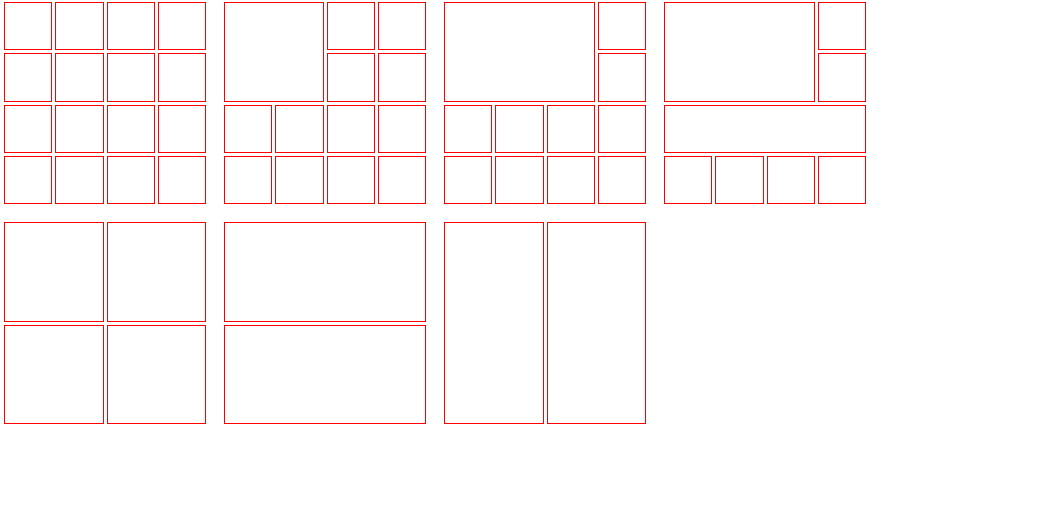
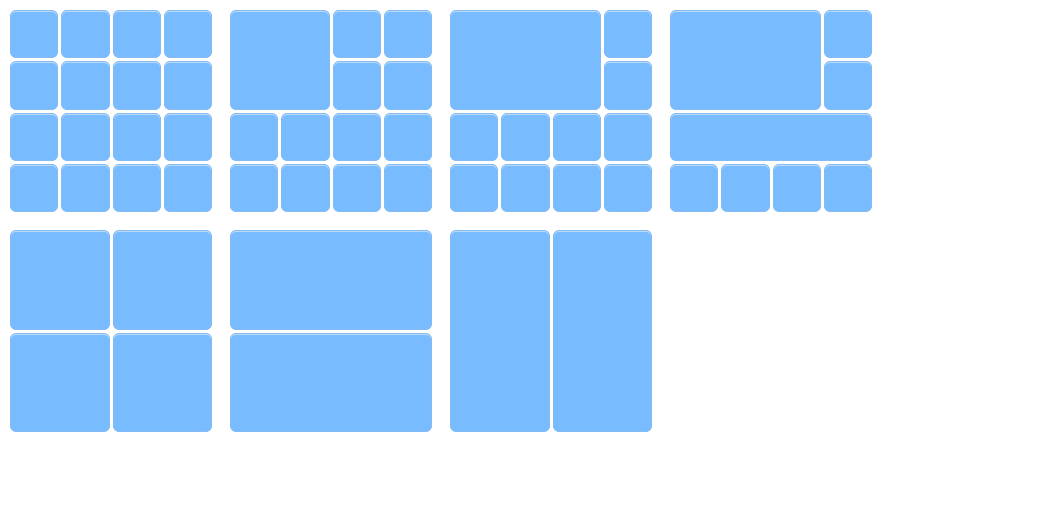
updated example

diff --git a/example/example.less b/example/example.less
@@ -1,2 +1,54 @@
 @import "../src/grid.less";
-.grid(grid, 200px, 200px, 4, 4, 5px);
+
+	.grid(grid, 200px, 200px, 4, 4, 5px)
+
+;
+
+// styling
+
+html, body {
+	width: 100%;
+	height: 100%;
+
+	margin: 0;
+	padding: 0;
+
+}
+
+.grid {
+	margin: 10px;
+	float: left;
+	
+	div {
+		-moz-box-shadow: inset 0px 1px 0px 0px #BBDAF7;
+		-webkit-box-shadow: inset 0px 1px 0px 0px #BBDAF7;
+		box-shadow: inset 0px 1px 0px 0px #BBDAF7;
+		background-color: #79BBFF;
+		-webkit-border-top-left-radius: 6px;
+		-moz-border-radius-topleft: 6px;
+		border-top-left-radius: 6px;
+		-webkit-border-top-right-radius: 6px;
+		-moz-border-radius-topright: 6px;
+		border-top-right-radius: 6px;
+		-webkit-border-bottom-right-radius: 6px;
+		-moz-border-radius-bottomright: 6px;
+		border-bottom-right-radius: 6px;
+		-webkit-border-bottom-left-radius: 6px;
+		-moz-border-radius-bottomleft: 6px;
+		border-bottom-left-radius: 6px;
+		text-indent: 0;
+		border: 1px solid #84BBF3;
+		display: inline-block;
+		color: #FFFFFF;
+		font-family: Arial;
+		font-size: 15px;
+		font-weight: bold;
+		font-style: normal;
+		height: 50px;
+		line-height: 50px;
+		width: 86px;
+		text-decoration: none;
+		text-align: center;
+		text-shadow: 1px 1px 0px #528ECC;
+	}
+}

diff --git a/example/example.css b/example/example.css
@@ -83,3 +83,46 @@
   position: absolute;
   top: 0px;
 }
+html,
+body {
+  width: 100%;
+  height: 100%;
+  margin: 0;
+  padding: 0;
+}
+.grid {
+  margin: 10px;
+  float: left;
+}
+.grid div {
+  -moz-box-shadow: inset 0px 1px 0px 0px #BBDAF7;
+  -webkit-box-shadow: inset 0px 1px 0px 0px #BBDAF7;
+  box-shadow: inset 0px 1px 0px 0px #BBDAF7;
+  background-color: #79BBFF;
+  -webkit-border-top-left-radius: 6px;
+  -moz-border-radius-topleft: 6px;
+  border-top-left-radius: 6px;
+  -webkit-border-top-right-radius: 6px;
+  -moz-border-radius-topright: 6px;
+  border-top-right-radius: 6px;
+  -webkit-border-bottom-right-radius: 6px;
+  -moz-border-radius-bottomright: 6px;
+  border-bottom-right-radius: 6px;
+  -webkit-border-bottom-left-radius: 6px;
+  -moz-border-radius-bottomleft: 6px;
+  border-bottom-left-radius: 6px;
+  text-indent: 0;
+  border: 1px solid #84BBF3;
+  display: inline-block;
+  color: #FFFFFF;
+  font-family: Arial;
+  font-size: 15px;
+  font-weight: bold;
+  font-style: normal;
+  height: 50px;
+  line-height: 50px;
+  width: 86px;
+  text-decoration: none;
+  text-align: center;
+  text-shadow: 1px 1px 0px #528ECC;
+}

diff --git a/example/index.html b/example/index.html
@@ -4,28 +4,6 @@
 		<title></title>
 
 		<link rel="stylesheet" href="example.css"/>
-		<style>
-
-			html, body {
-				width: 100%;
-				height: 100%;
-
-				margin: 0;
-				padding: 0;
-
-			}
-
-			.grid {
-				margin: 10px;
-				float: left;
-			}
-
-			.grid div {
-				border: 1px solid #FF0000;
-			}
-
-
-		</style>
 	</head>
 	<body>
 		<div class="grid">
